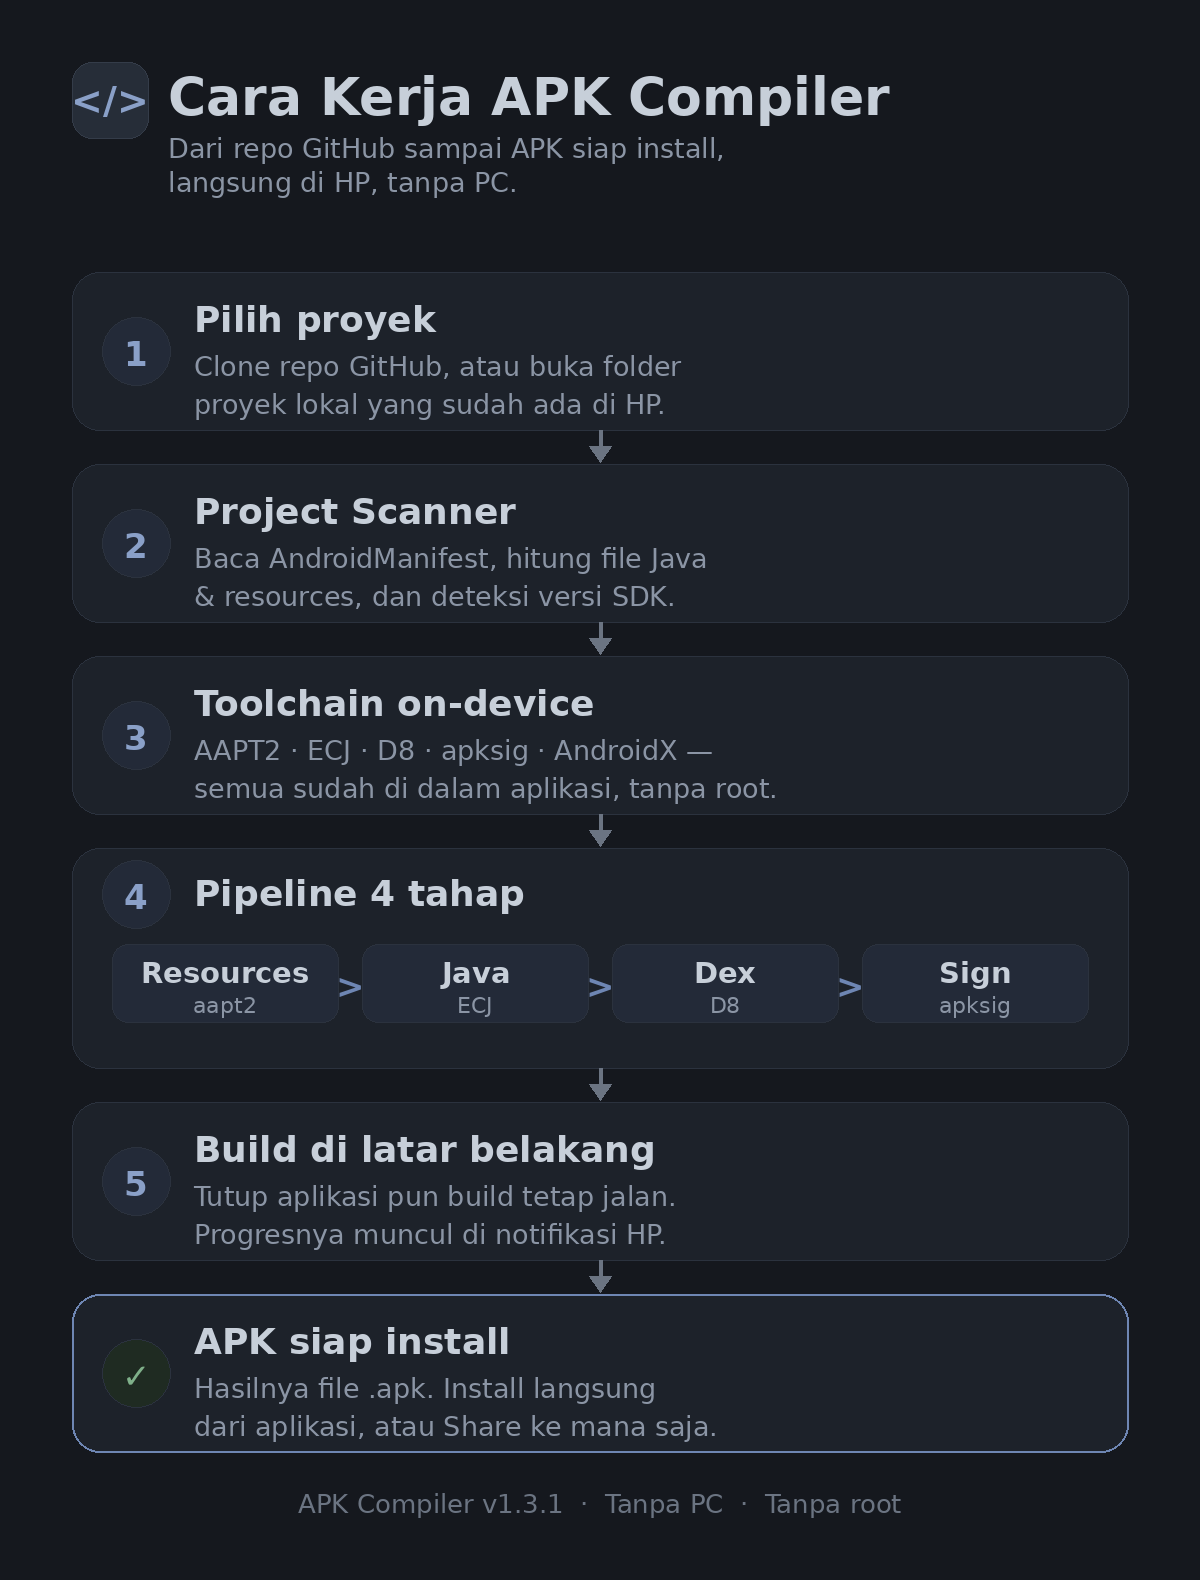
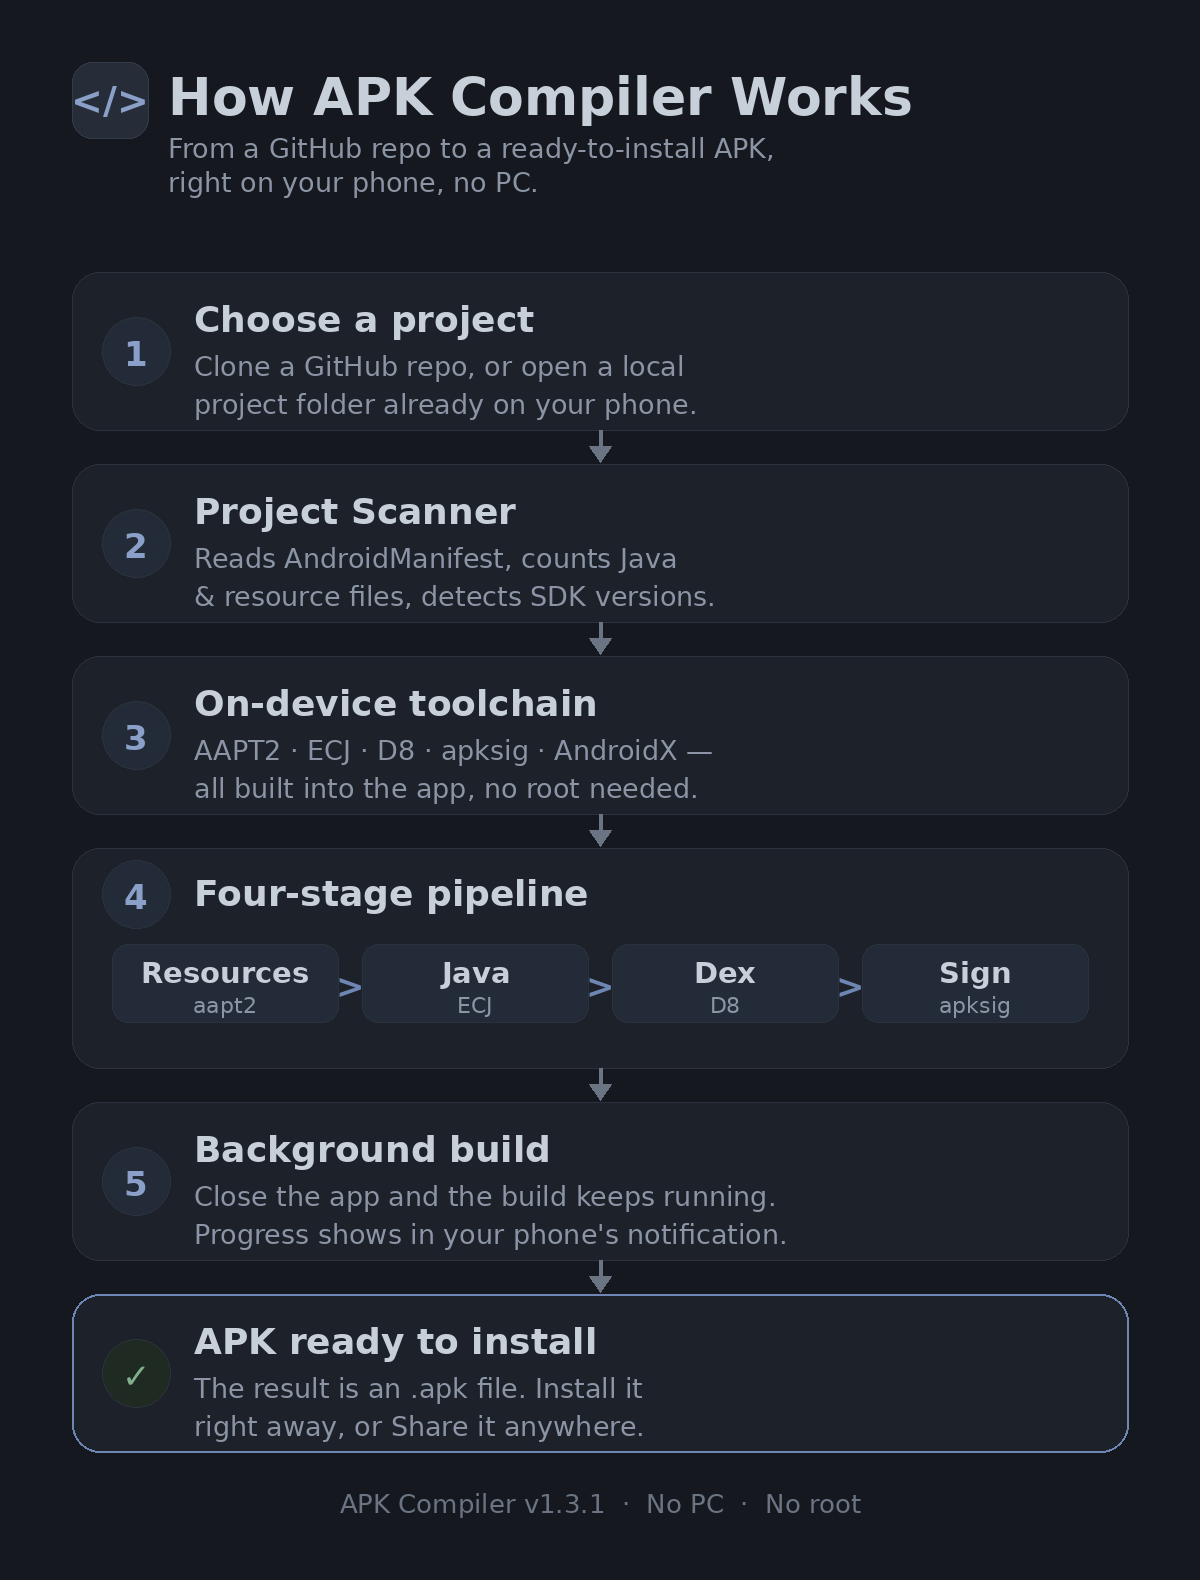
docs: README and How It Works illustration fully in English
- README rewritten fully in English; the app UI itself stays English (v1.3.1).
- The Indonesian app translation (unreleased v1.3.2 draft) was reverted before release and was never pushed or uploaded.
- How It Works flow illustration regenerated in English to match.

diff --git a/README.md b/README.md
@@ -1,73 +1,73 @@
 # APK Compiler (Android On-Device Compiler & Git Cloner)
 
-Aplikasi Android native mandiri untuk meng-clone repository proyek Android dari GitHub, memilih direktori lokal, mengelola dependensi build/toolchain (JDK, ECJ, D8, android.jar, AAPT2) langsung dari dalam aplikasi, dan mengompilasi proyek menjadi file APK siap install.
+A standalone native Android app to clone Android project repositories from GitHub, pick a local directory, manage build/toolchain dependencies (JDK, ECJ, D8, android.jar, AAPT2) from inside the app, and compile a project into a ready-to-install APK file.
 
 ## Preview
 
 <p>
-  <img src="screenshots/01-projects.jpg" width="170" alt="Tab Projects">
-  <img src="screenshots/02-build.jpg" width="170" alt="Tab Build, build selesai">
-  <img src="screenshots/03-tools.jpg" width="170" alt="Tab Tools">
-  <img src="screenshots/04-files.jpg" width="170" alt="Tab Files">
-  <img src="screenshots/05-editor.jpg" width="170" alt="Editor kode di dalam aplikasi">
+  <img src="screenshots/01-projects.jpg" width="170" alt="Projects tab">
+  <img src="screenshots/02-build.jpg" width="170" alt="Build tab, finished build">
+  <img src="screenshots/03-tools.jpg" width="170" alt="Tools tab">
+  <img src="screenshots/04-files.jpg" width="170" alt="Files tab">
+  <img src="screenshots/05-editor.jpg" width="170" alt="In-app code editor">
 </p>
 
-## Cara Kerja
+## How It Works
 
-![Ilustrasi cara kerja APK Compiler](screenshots/how-it-works.png)
+![How APK Compiler works illustration](screenshots/how-it-works.png)
 
-1. **Pilih proyek** — Clone repo GitHub, atau buka folder proyek lokal yang sudah ada di HP.
-2. **Project Scanner** — Baca `AndroidManifest.xml`, hitung file Java & resources, dan deteksi versi SDK.
-3. **Toolchain on-device** — AAPT2, ECJ, D8, apksig, dan AndroidX sudah di dalam aplikasi, tanpa root.
-4. **Pipeline 4 tahap** — Resources (aapt2) → Java (ECJ) → Dex (D8) → Sign (apksig).
-5. **Build di latar belakang** — Tutup aplikasi pun build tetap jalan; progresnya muncul di notifikasi HP.
-6. **APK siap install** — Hasilnya file `.apk`. Install langsung dari aplikasi, atau Share ke mana saja.
+1. **Choose a project** — Clone a GitHub repo, or open a local project folder already on your phone.
+2. **Project Scanner** — Reads `AndroidManifest.xml`, counts Java & resource files, and detects the SDK versions.
+3. **On-device toolchain** — AAPT2, ECJ, D8, apksig, and AndroidX are all built into the app, no root needed.
+4. **Four-stage pipeline** — Resources (aapt2) → Java (ECJ) → Dex (D8) → Sign (apksig).
+5. **Background build** — Close the app and the build keeps running; progress shows in your phone's notification.
+6. **APK ready to install** — The result is an `.apk` file. Install it right away, or Share it anywhere.
 
-## Fitur Utama
+## Features
 
 1. **GitHub Git Cloner**:
-   - Input URL repository GitHub (format `https://github.com/owner/repo` atau branch custom).
-   - Mengunduh zipball repositori secara otomatis dengan penanganan HTTP 301/302 redirects.
-   - Pengekstrak zip aman dengan perlindungan *Zip Slip*.
-   - Auto-detect proyek Android setelah diekstrak.
+   - Input a GitHub repository URL (format `https://github.com/owner/repo`, or a custom branch).
+   - Downloads the repository zipball automatically, with HTTP 301/302 redirect handling.
+   - Safe zip extraction with *Zip Slip* protection.
+   - Auto-detects the Android project after extraction.
 
 2. **Project Scanner & Folder Navigator**:
-   - Mendeteksi struktur proyek Android (Gradle layout `app/src/main` maupun Eclipse/Flat layout).
-   - Parsing otomatis `AndroidManifest.xml` (package name, minSdkVersion, targetSdkVersion).
-   - Penghitungan otomatis file sumber Java dan resource assets.
-   - Folder picker lokal untuk memilih folder proyek mana saja di penyimpanan perangkat.
+   - Detects Android project structure (Gradle layout `app/src/main` or Eclipse/Flat layout).
+   - Automatic `AndroidManifest.xml` parsing (package name, minSdkVersion, targetSdkVersion).
+   - Automatic count of Java source files and resource assets.
+   - Local folder picker to choose any project folder on device storage.
 
 3. **In-App Toolchain & Dependency Manager**:
-   - Memeriksa kelengkapan dependensi compiler secara real-time.
-   - Tombol satu klik: **"Pasang Semua Dependensi"** untuk mengunduh komponen compiler:
-     - Eclipse Compiler for Java (`ecj.jar` - JDK bytecode compiler untuk Android Dalvik/ART).
-     - Android D8 Dexer (`d8.jar` - konversi .class ke classes.dex).
+   - Real-time check of compiler dependency completeness.
+   - One-tap button: **"Install All Dependencies"** to download the compiler components:
+     - Eclipse Compiler for Java (`ecj.jar` - JDK bytecode compiler for Android Dalvik/ART).
+     - Android D8 Dexer (`d8.jar` - converts .class files to classes.dex).
      - Android SDK Platform (`android.jar` - API definitions).
-     - AAPT2 Tool (kompilasi layout, resources, dan link manifest).
-     - Android Debug Keystore (kunci kriptografi RSA 2048-bit untuk penandatanganan APK).
+     - AAPT2 Tool (layout/resource compilation and manifest linking).
+     - Android Debug Keystore (RSA 2048-bit cryptographic key for APK signing).
 
-4. **Pipeline Kompilasi On-Device**:
-   - **Step 1: Resource & Manifest** -> Menghasilkan `R.java` dan base APK zip.
-   - **Step 2: Java Compile** -> Mengompilasi source `.java` menjadi `.class`.
-   - **Step 3: DEX Compile** -> Mengonversi `.class` menjadi `classes.dex`.
-   - **Step 4: Package & ZipAlign** -> Merakit APK dan merapikan 4-byte boundary.
-   - **Step 5: Sign APK** -> Menandatangani APK dengan keystore debug.
-   - **Step 6: Output & Action** -> Tombol langsung **"Install APK"** (via `FileProvider`) dan **"Bagikan File"**.
+4. **On-Device Compilation Pipeline**:
+   - **Step 1: Resource & Manifest** -> Generates `R.java` and the base APK zip.
+   - **Step 2: Java Compile** -> Compiles `.java` sources into `.class` files.
+   - **Step 3: DEX Compile** -> Converts `.class` files into `classes.dex`.
+   - **Step 4: Package & ZipAlign** -> Assembles the APK and aligns the 4-byte boundary.
+   - **Step 5: Sign APK** -> Signs the APK with the debug keystore.
+   - **Step 6: Output & Action** -> Direct **"Install APK"** (via `FileProvider`) and **"Share File"** buttons.
 
 5. **Terminal Console & UI (v1.3.1)**:
-   - Tema gelap kalem low-contrast: permukaan slate gelap, teks abu lembut (bukan putih), satu aksen biru baja yang diredam. Tanpa gradien, tanpa glow, tanpa emoji. v1.3.0 yang putih terang sudah diganti karena terlalu kontras.
-   - Logo baru: mark `</>` satu warna biru baja di atas kotak slate gelap, tanpa kartu putih dan tanpa biru terang.
-   - Tab berikon (Projects, Build, Tools, Files) dengan indikator tab aktif.
-   - Stepper pipeline visual: Resources, Java, Dex, Sign.
-   - Kartu proyek dan komponen toolchain berikon, teks dipangkas ke yang perlu saja. Placement diperbaiki: header tinggi tetap 56dp (subtitle satu baris), kartu proyek/SDK vertikal dengan statistik sejajar di bawah judul, tombol utama tanpa ikon di pinggir (teks rata tengah).
-   - Log terminal real-time dengan auto-scroll dan penanda status; baris yang sama persis tidak dicetak dua kali, dan tombol Install all tidak bisa ditekan dua kali bersamaan.
-   - **Build latar belakang**: kompilasi jalan lewat foreground service, tetap jalan walau aplikasi ditutup, dengan progress bar di notifikasi. Buka lagi aplikasinya untuk melihat hasil; notifikasi selesai bisa diketuk untuk kembali ke aplikasi.
+   - Calm dark low-contrast theme: dark slate surfaces, soft gray text (not white), one muted steel-blue accent. No gradients, no glow, no emoji. The bright white v1.3.0 theme was replaced because it was too contrasty.
+   - New logo: a single steel-blue `</>` mark on a dark slate square, no white card and no bright blue.
+   - Icon tabs (Projects, Build, Tools, Files) with an active tab indicator.
+   - Visual pipeline stepper: Resources, Java, Dex, Sign.
+   - Icon project and toolchain component cards, text trimmed to what is needed. Fixed placement: fixed-height 56dp header (single-line subtitle), vertical project/SDK cards with stats aligned under the title, main buttons without side icons (centered text).
+   - Real-time terminal log with auto-scroll and status markers; an identical line is never printed twice, and the Install all button cannot be double-tapped.
+   - **Background build**: compilation runs through a foreground service, keeps running even after the app is closed, with a progress bar in the notification. Reopen the app to see the result; the finished notification can be tapped to return to the app.
 
-## Lokasi Artifact APK
-- Output build: `ApkCompiler.apk` (Root direktori proyek)
-- Ukuran: ~14,9 MB (self-contained: ECJ, D8, apksig, AAPT2 statis, AndroidX essentials)
+## APK Artifact Location
+- Build output: `ApkCompiler.apk` (project root directory)
+- Size: ~14.9 MB (self-contained: ECJ, D8, apksig, static AAPT2, AndroidX essentials)
 
-## Cara Build Ulang
+## How to Rebuild
 ```bash
 cd ~/workspace/apk-compiler
 ./build.sh
